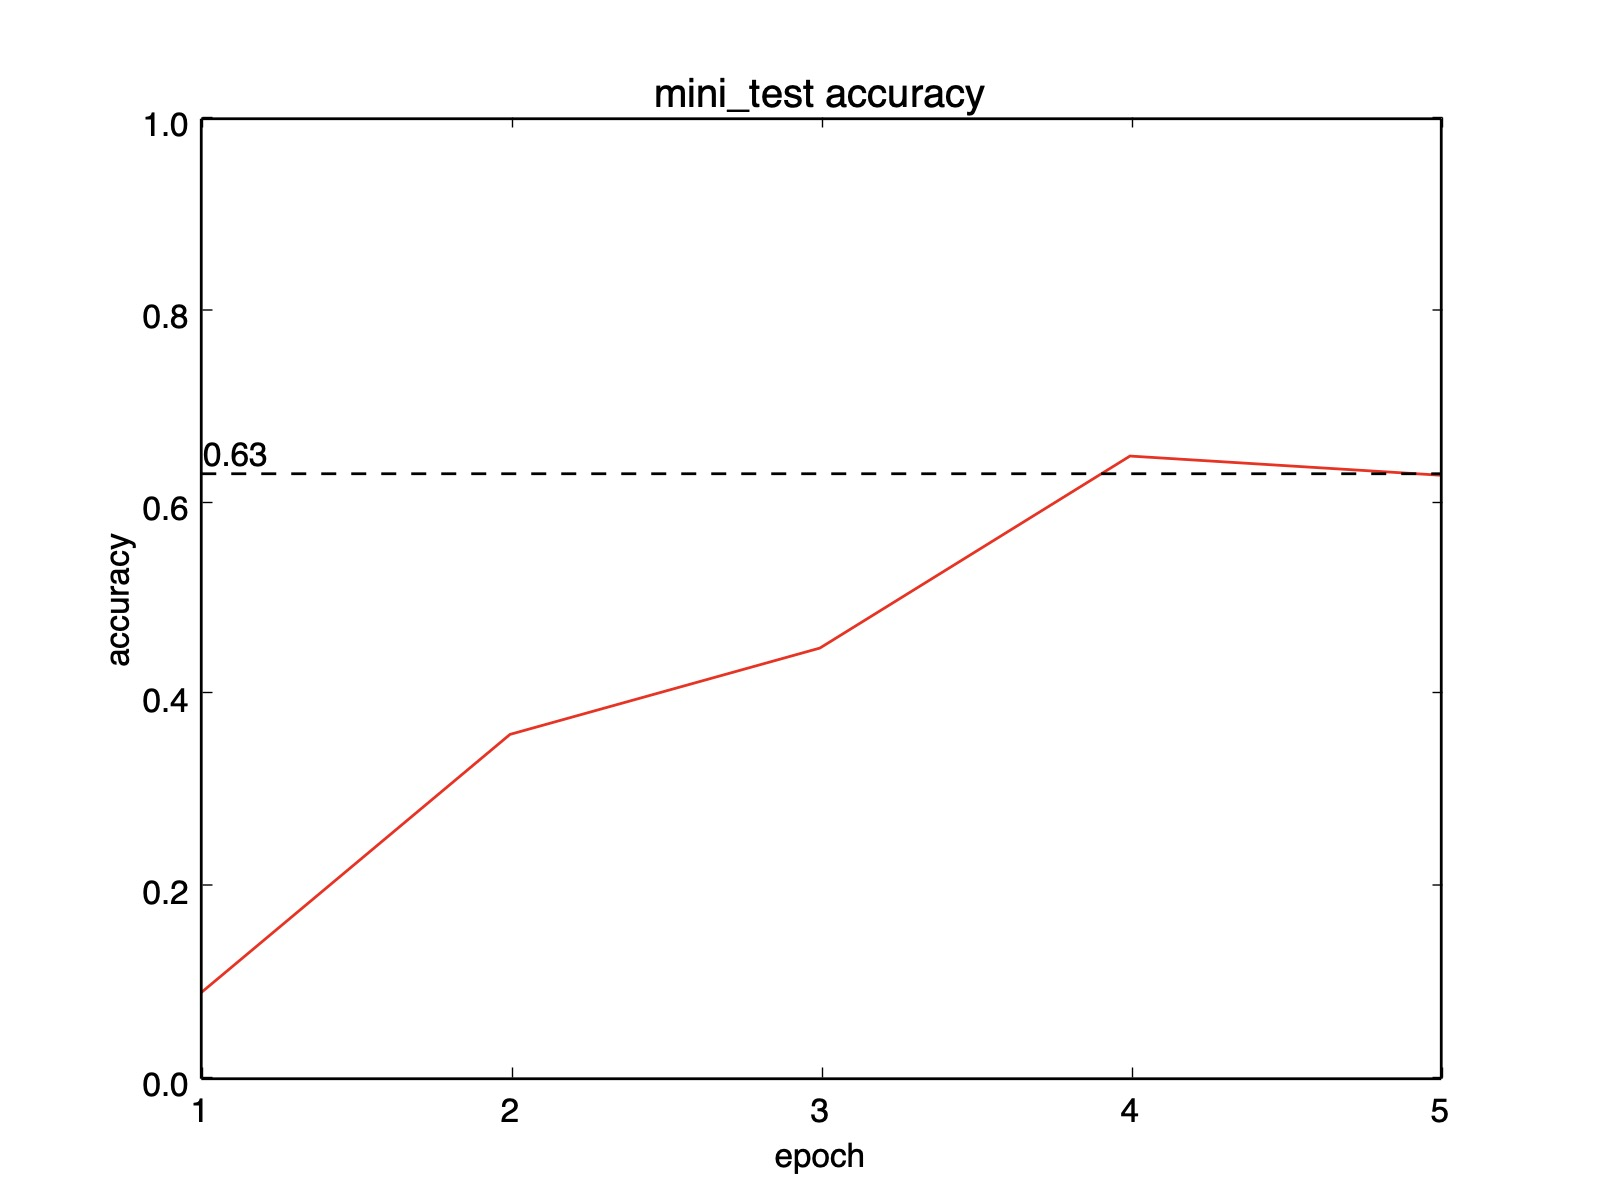
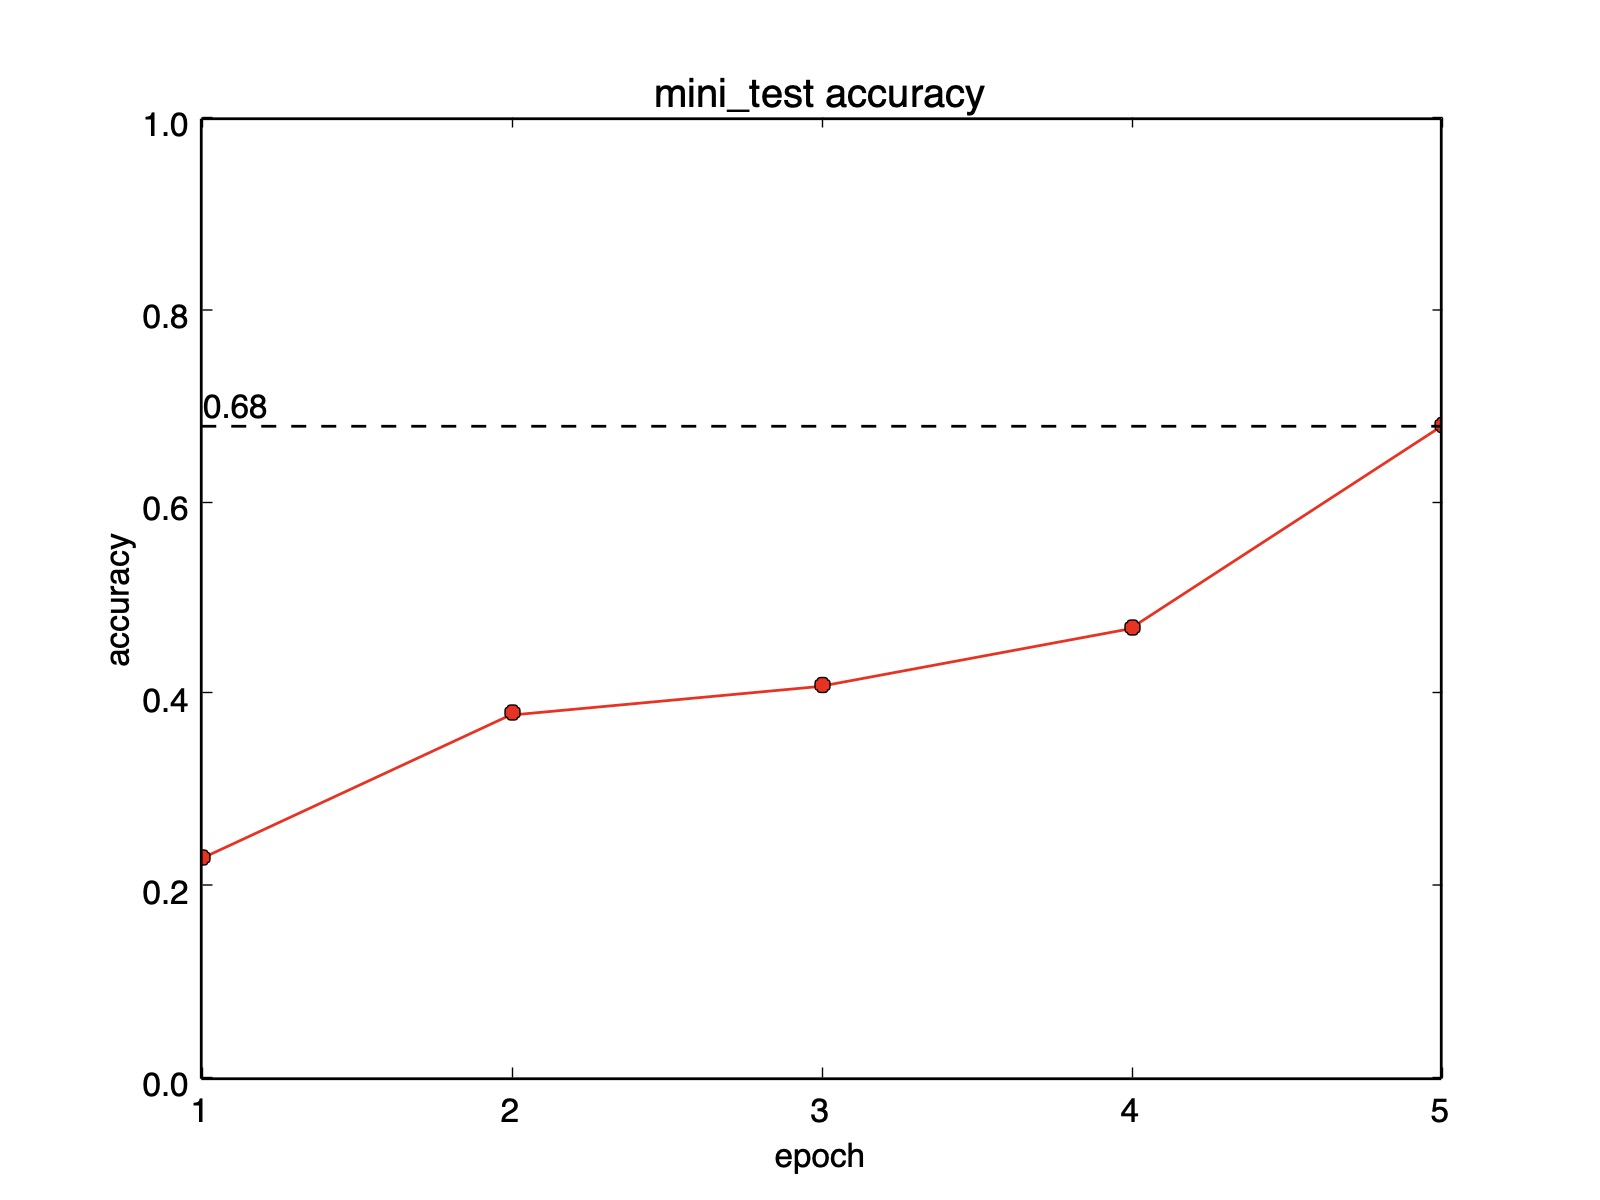
chore: testのplotをro-に

diff --git a/util.py b/util.py
@@ -41,7 +41,7 @@ def plotAccuracy(name, epoch, data):
   plt.xlim([1, epoch])
   plt.ylim([0, 1])
   plt.gca().get_xaxis().set_major_locator(ticker.MaxNLocator(integer=True))
-  plt.plot(np.linspace(1, epoch, len(data)), data, 'r-')
+  plt.plot(np.linspace(1, epoch, len(data)), data, 'ro-' if epoch == len(data) else 'r-')
   plt.axhline(y=data[-1], color='black', linestyle='--')
   plt.text(1.01, data[-1] + 0.01, str(data[-1]))
   if not os.path.exists('picture'):
